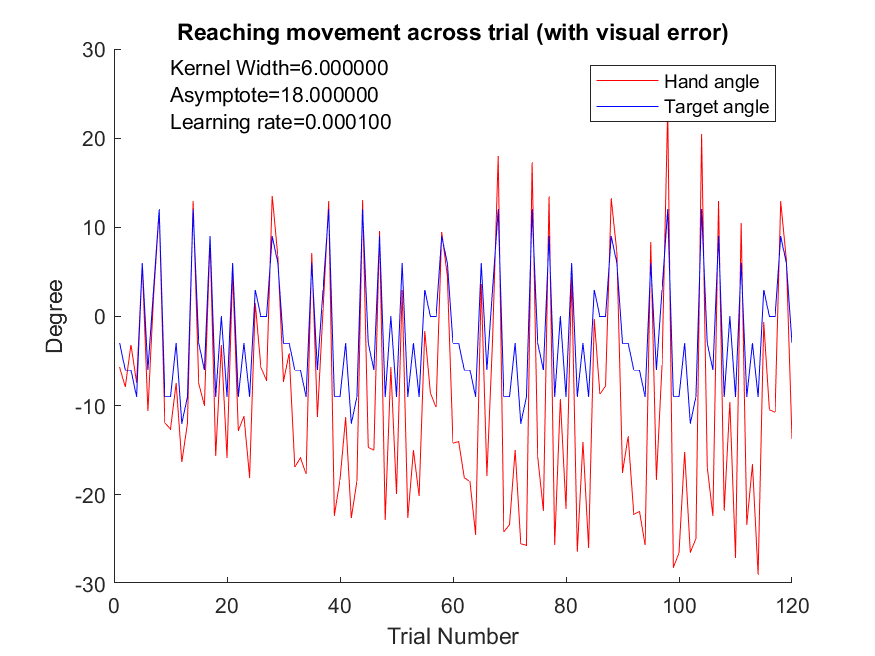
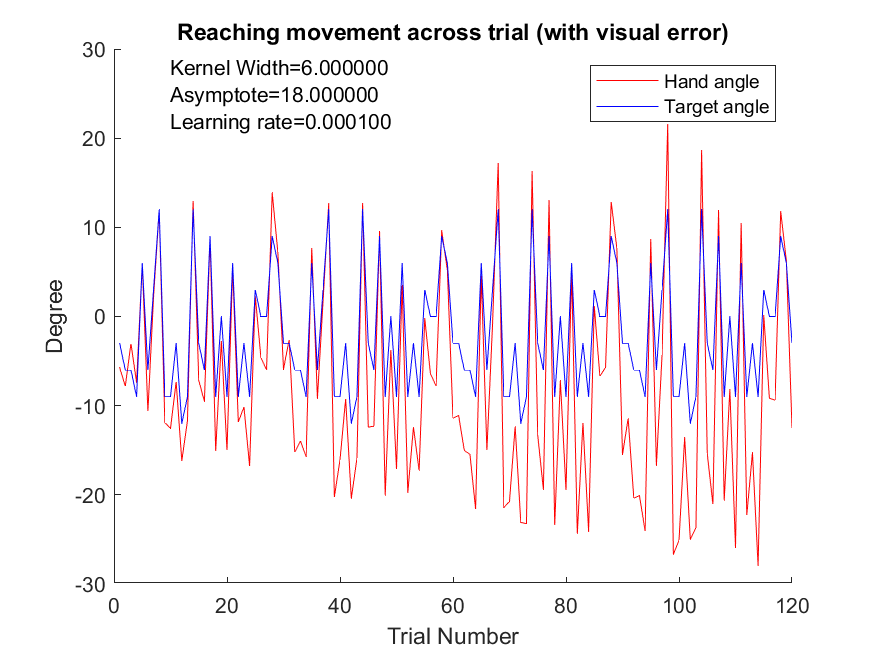
results update

diff --git a/Model/SensoryRecabModel_MirrorReversal_20220116.m b/Model/SensoryRecabModel_MirrorReversal_20220116.m
@@ -68,8 +68,8 @@ for i=1:Ntrials
     signederror(i) = priopout(i) - vision(i);
     
     % learning update
-    w = w + eta*prioperror(i)*B(:,i_selected)';
-    %w = w + eta*visualerror(i)*B(:,i_selected)';
+    %w = w + eta*prioperror(i)*B(:,i_selected)';
+    w = w + eta*visualerror(i)*B(:,i_selected)';
     %w = w + eta*taskerror(i)*B(:,i_selected)';
 end
 
@@ -85,8 +85,8 @@ for i = 1:Ntrials
 end
 xlim([-xlim_right,xlim_right]);
 ylim([-ylim_up,ylim_up]);
-%title('Proprio-Visual Sensory Map (visual error)');
-title('Proprio-Visual Sensory Map (proprio error)');
+title('Proprio-Visual Sensory Map (visual error)');
+%title('Proprio-Visual Sensory Map (proprio error)');
 text(15-xlim_right,ylim_up-15,txt);
 caxis([0,Ntrials]);
 c=colorbar;
@@ -95,8 +95,8 @@ xlabel('Proprioceptive Cue');
 ylabel('Visual Cue');
 
 cd('Results\');
-saveas(gcf,'MirrorReversalModelSensoryMapChange_LauFoo_20220116_1.png');
-%saveas(gcf,'MirrorReversalModelSensoryMapChange_LauFoo_20220116_2.png');
+%saveas(gcf,'MirrorReversalModelSensoryMapChange_LauFoo_20220116_1.png');
+saveas(gcf,'MirrorReversalModelSensoryMapChange_LauFoo_20220116_2.png');
 cd(root_dir);
 
 reachbyblock = zeros(blocknum,blocksize);
@@ -120,12 +120,12 @@ end
 
 xlabel('Trial # (Within Block)');
 ylabel('Reach Direction');
-%title('Reach Direction By Block (with Visual Error)');
-title('Reach Direction By Block (with proprio error)');
+title('Reach Direction By Block (with Visual Error)');
+%title('Reach Direction By Block (with proprio error)');
 
 cd('Results\');
-saveas(gcf,'MirrorReversalModelReacByBlock_LauFoo_20220116_1.png');
-%saveas(gcf,'MirrorReversalModelReacByBlock_LauFoo_20220116_2.png');
+%saveas(gcf,'MirrorReversalModelReacByBlock_LauFoo_20220116_1.png');
+saveas(gcf,'MirrorReversalModelReacByBlock_LauFoo_20220116_2.png');
 cd(root_dir);
 
 figure;
@@ -137,13 +137,13 @@ ylim([-ylim_up,ylim_up]);
 plot(priopout,'Color','r');
 plot(vision,'Color','b');
 text(10,ylim_up-5,txt);
-title('Reaching movement across trial (with proprio error)');
-%title('Reaching movement across trial (with visual error)');
+%title('Reaching movement across trial (with proprio error)');
+title('Reaching movement across trial (with visual error)');
 legend('Hand angle','Target angle');
 
 cd('Results\');
-saveas(gcf,'MirrorReversalModelHandVersusTarget_LauFoo_20220116_1.png');
-%saveas(gcf,'MirrorReversalModelHandVersusTarget_LauFoo_20220116_2.png');
+%saveas(gcf,'MirrorReversalModelHandVersusTarget_LauFoo_20220116_1.png');
+saveas(gcf,'MirrorReversalModelHandVersusTarget_LauFoo_20220116_2.png');
 cd(root_dir);
 
 figure; 
@@ -151,12 +151,12 @@ hold on;
 plot(signederror);
 xlabel('Trial Number');
 ylabel('Error Degree (Clockwise is Positive)');
-title('Signed Error Across Trial (with proprio error)');
-%title('Signed Error Across Trial (with visual error)');
+%title('Signed Error Across Trial (with proprio error)');
+title('Signed Error Across Trial (with visual error)');
 
 cd('Results\');
-saveas(gcf,'MirrorReversalModelSignedError_LauFoo_20220116_1.png');
-%saveas(gcf,'MirrorReversalModelSignedError_LauFoo_20220116_2.png');
+%saveas(gcf,'MirrorReversalModelSignedError_LauFoo_20220116_1.png');
+saveas(gcf,'MirrorReversalModelSignedError_LauFoo_20220116_2.png');
 cd(root_dir);
 
 figure; 
@@ -164,12 +164,12 @@ hold on;
 plot(absoluteerror);
 xlabel('Trial Number');
 ylabel('Absolute Error Degree');
-title('Absolute Error Across Trial (with proprio error)');
-%title('Absolute Error Across Trial (with visual error)');
+%title('Absolute Error Across Trial (with proprio error)');
+title('Absolute Error Across Trial (with visual error)');
 
 cd('Results\');
-saveas(gcf,'MirrorReversalModelAbsoluteError_LauFoo_20220116_1.png');
-%saveas(gcf,'MirrorReversalModelAbsoluteError_LauFoo_20220116_2.png');
+%saveas(gcf,'MirrorReversalModelAbsoluteError_LauFoo_20220116_1.png');
+saveas(gcf,'MirrorReversalModelAbsoluteError_LauFoo_20220116_2.png');
 cd(root_dir);
 
 reachbytarget = zeros(9,1);
@@ -226,12 +226,12 @@ for i=1:blocknum
     y_fitted = polyval(p,linspace(-12,12,9));
     plot(linspace(-12,12,9),y_fitted,'Color',RGB,'LineWidth',1.5);
 end
-%title('Reach Direction versus Target Direction (with visual error)');
-title('Reach Direction versus Target Direction (with proprio error)');
+title('Reach Direction versus Target Direction (with visual error)');
+%title('Reach Direction versus Target Direction (with proprio error)');
 
 cd('Results\');
-saveas(gcf,'MirrorReversalModelReachByTarget_LauFoo_20220116_1.png');
-%saveas(gcf,'MirrorReversalModelReachByTarget_LauFoo_20220116_2.png');
+%saveas(gcf,'MirrorReversalModelReachByTarget_LauFoo_20220116_1.png');
+saveas(gcf,'MirrorReversalModelReachByTarget_LauFoo_20220116_2.png');
 cd(root_dir);
 
 figure; 
@@ -251,8 +251,8 @@ xlabel('Block Number');
 ylabel('Abs. of offset');
 
 cd('Results\');
-saveas(gcf,'MirrorReversalModelSlopeOffset_LauFoo_20220116_1.png');
-%saveas(gcf,'MirrorReversalModelSlopeOffset_LauFoo_20220116_2.png');
+%saveas(gcf,'MirrorReversalModelSlopeOffset_LauFoo_20220116_1.png');
+saveas(gcf,'MirrorReversalModelSlopeOffset_LauFoo_20220116_2.png');
 cd(root_dir);
 
 function y = sigmoid_saturation(x,sat_limit)
